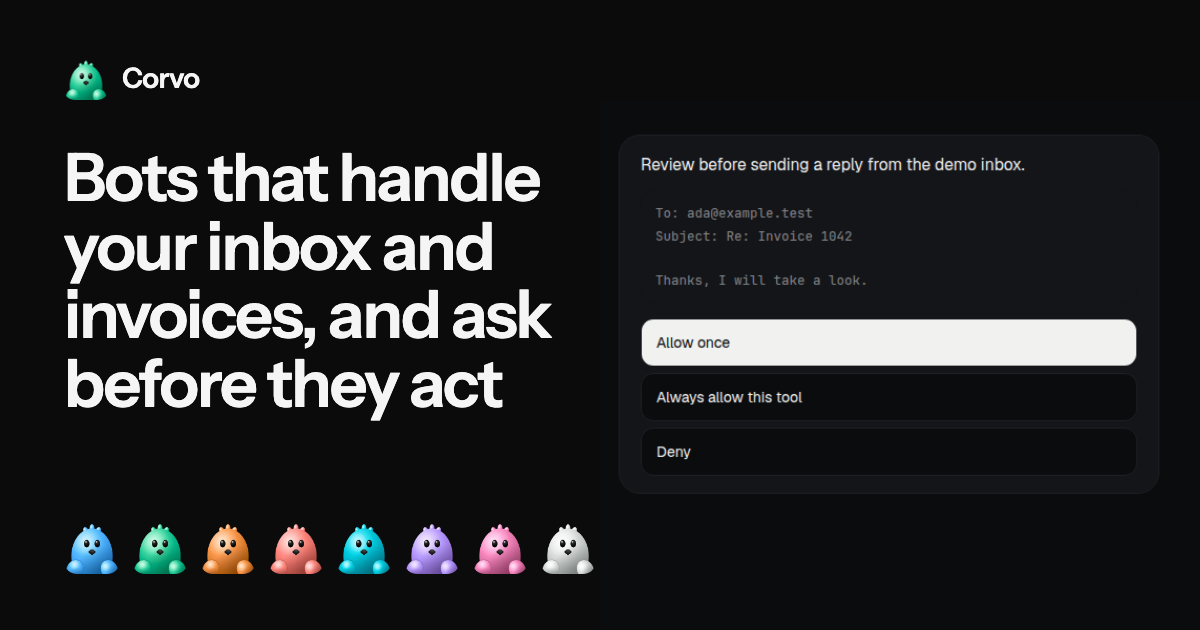
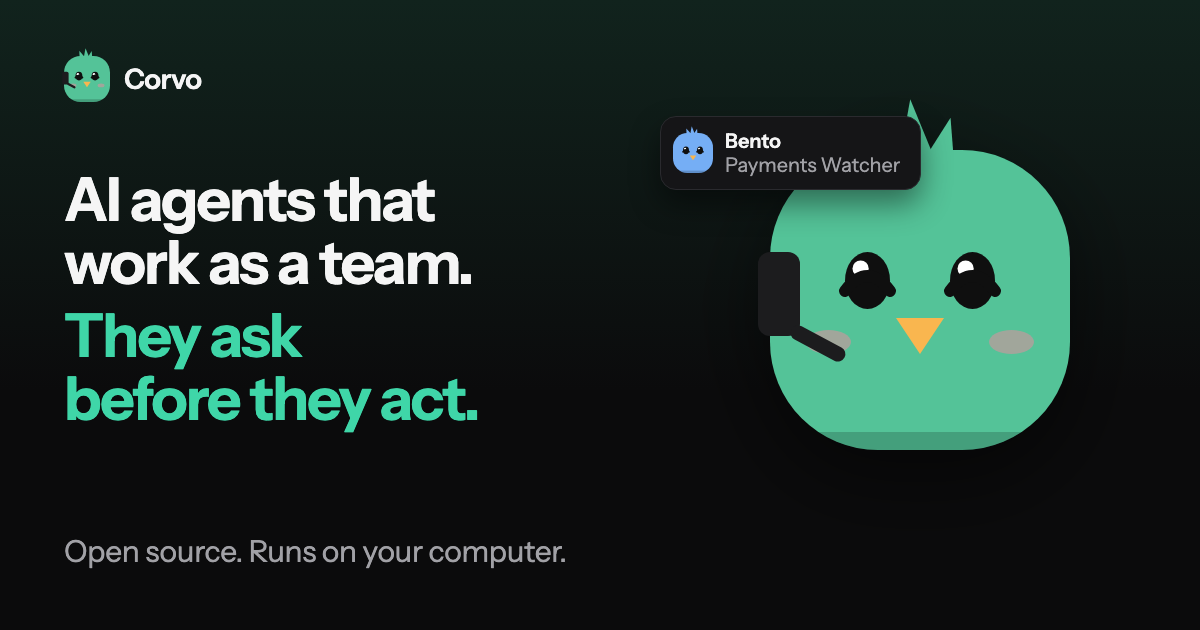
Redraw the social images with the new mark and a clearer line, in all seven languages

diff --git a/apps/www/src/i18n/launch/ja.ts b/apps/www/src/i18n/launch/ja.ts
@@ -6,6 +6,7 @@ const COPY: LaunchCopy = {
     description:
       "Corvo は、オープンソースの AI エージェントのチームです。それぞれに仕事と専用のツール、専用の会話があります。あなたのコンピューター上のチャンネルで協力して働き、動く前に確認します。",
     ogImageAlt: "Corvo。チームで働き、動く前に確認する AI エージェント。",
+    ogTagline: "オープンソース。あなたのコンピューターで動きます。",
     availableLanguage: "日本語",
     skipToContent: "本文へ移動",
   },

diff --git a/apps/www/src/i18n/launch/pt.ts b/apps/www/src/i18n/launch/pt.ts
@@ -6,6 +6,7 @@ const COPY: LaunchCopy = {
     description:
       "A Corvo é uma equipe de agentes de IA de código aberto. Cada um tem um trabalho, as próprias ferramentas e a própria conversa. Eles trabalham juntos em canais no seu computador e perguntam antes de agir.",
     ogImageAlt: "Corvo. Agentes de IA que trabalham em equipe e perguntam antes de agir.",
+    ogTagline: "Código aberto. Roda no seu computador.",
     availableLanguage: "Português (Brasil)",
     skipToContent: "Ir para o conteúdo",
   },

diff --git a/apps/www/src/i18n/launch/es.ts b/apps/www/src/i18n/launch/es.ts
@@ -6,6 +6,7 @@ const COPY: LaunchCopy = {
     description:
       "Corvo es un equipo de agentes de IA de código abierto. Cada uno tiene un trabajo, sus propias herramientas y su propia conversación. Trabajan juntos en canales en tu ordenador y preguntan antes de actuar.",
     ogImageAlt: "Corvo. Agentes de IA que trabajan en equipo y preguntan antes de actuar.",
+    ogTagline: "Código abierto. Funciona en tu ordenador.",
     availableLanguage: "Español",
     skipToContent: "Saltar al contenido",
   },

diff --git a/apps/www/src/i18n/launch/de.ts b/apps/www/src/i18n/launch/de.ts
@@ -6,6 +6,7 @@ const COPY: LaunchCopy = {
     description:
       "Corvo ist ein Open-Source-Team aus KI-Agenten. Jeder hat eine Aufgabe, eigene Tools und eine eigene Unterhaltung. Sie arbeiten in Kanälen auf deinem Computer zusammen und fragen nach, bevor sie handeln.",
     ogImageAlt: "Corvo. KI-Agenten, die als Team arbeiten und nachfragen, bevor sie handeln.",
+    ogTagline: "Open Source. Läuft auf deinem Computer.",
     availableLanguage: "Deutsch",
     skipToContent: "Zum Inhalt springen",
   },

diff --git a/apps/www/src/i18n/launch/fr.ts b/apps/www/src/i18n/launch/fr.ts
@@ -6,6 +6,7 @@ const COPY: LaunchCopy = {
     description:
       "Corvo est une équipe d'agents IA open source. Chacun a un métier, ses propres outils et sa propre conversation. Ils travaillent ensemble dans des canaux sur votre ordinateur et demandent avant d'agir.",
     ogImageAlt: "Corvo. Des agents IA qui travaillent en équipe et demandent avant d'agir.",
+    ogTagline: "Open source. Tourne sur votre ordinateur.",
     availableLanguage: "Français",
     skipToContent: "Aller au contenu",
   },

diff --git a/apps/www/src/i18n/launch/zh.ts b/apps/www/src/i18n/launch/zh.ts
@@ -6,6 +6,7 @@ const COPY: LaunchCopy = {
     description:
       "Corvo 是一支开源的 AI 智能体团队。每个智能体都有自己的工作、工具和对话。它们在你电脑上的频道里协作，并在行动前先问你。",
     ogImageAlt: "Corvo。以团队方式工作、行动前先询问的 AI 智能体。",
+    ogTagline: "开源。在你的电脑上运行。",
     availableLanguage: "简体中文",
     skipToContent: "跳到正文",
   },

diff --git a/apps/www/src/i18n/launch/en.ts b/apps/www/src/i18n/launch/en.ts
@@ -6,6 +6,7 @@ const COPY: LaunchCopy = {
     description:
       "Corvo is an open source team of AI agents. Each one has a job, its own tools and its own conversation. They work together in channels on your computer and ask before they act.",
     ogImageAlt: "Corvo. AI agents that work as a team and ask before they act.",
+    ogTagline: "Open source. Runs on your computer.",
     availableLanguage: "English",
     skipToContent: "Skip to content",
   },

diff --git a/apps/www/src/i18n/launch/types.ts b/apps/www/src/i18n/launch/types.ts
@@ -42,6 +42,7 @@ export type LaunchCopy = {
     title: string;
     description: string;
     ogImageAlt: string;
+    ogTagline: string;
     availableLanguage: string;
     skipToContent: string;
   };
